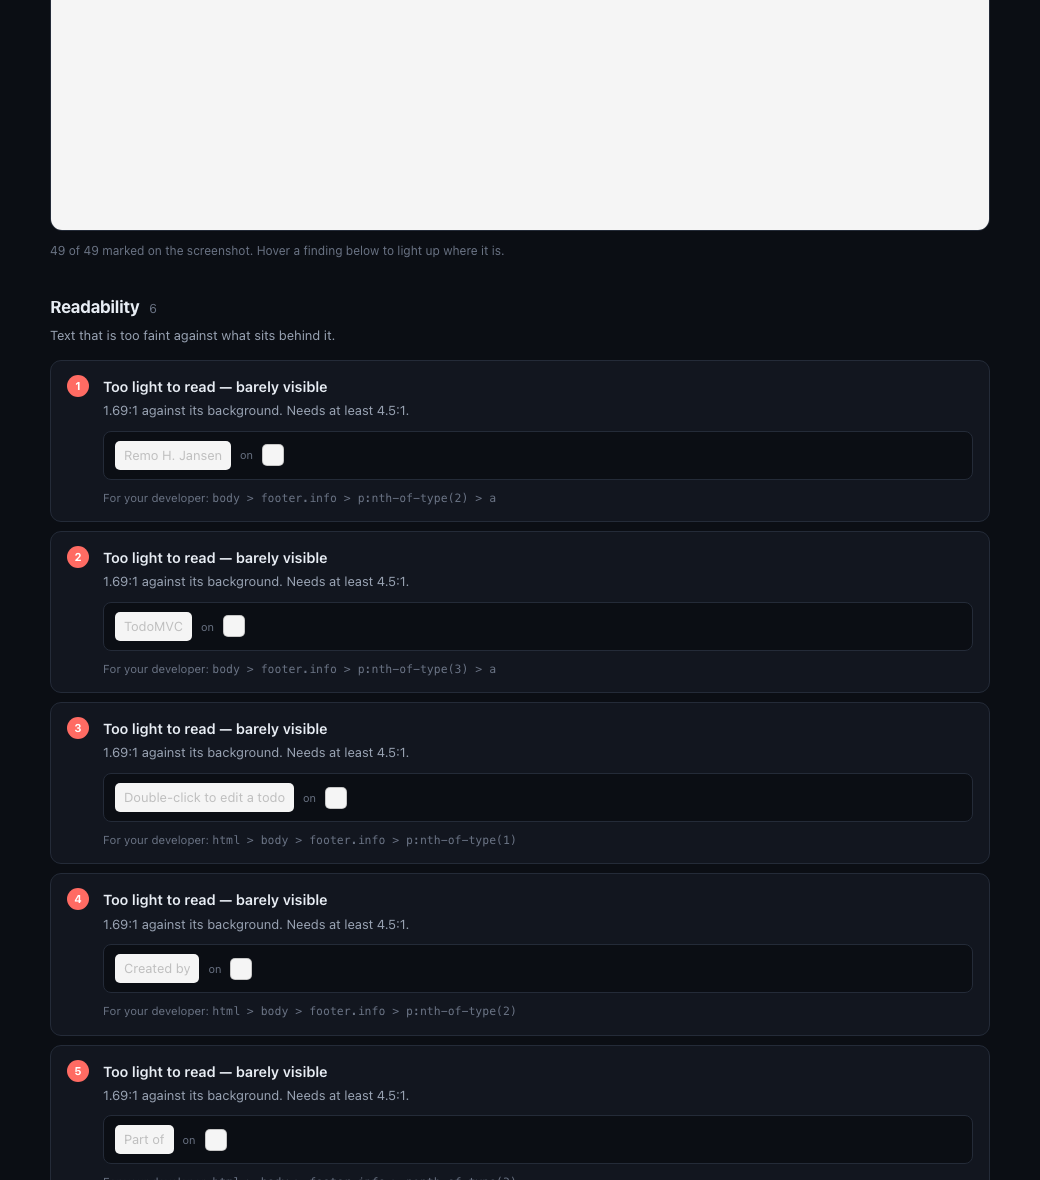
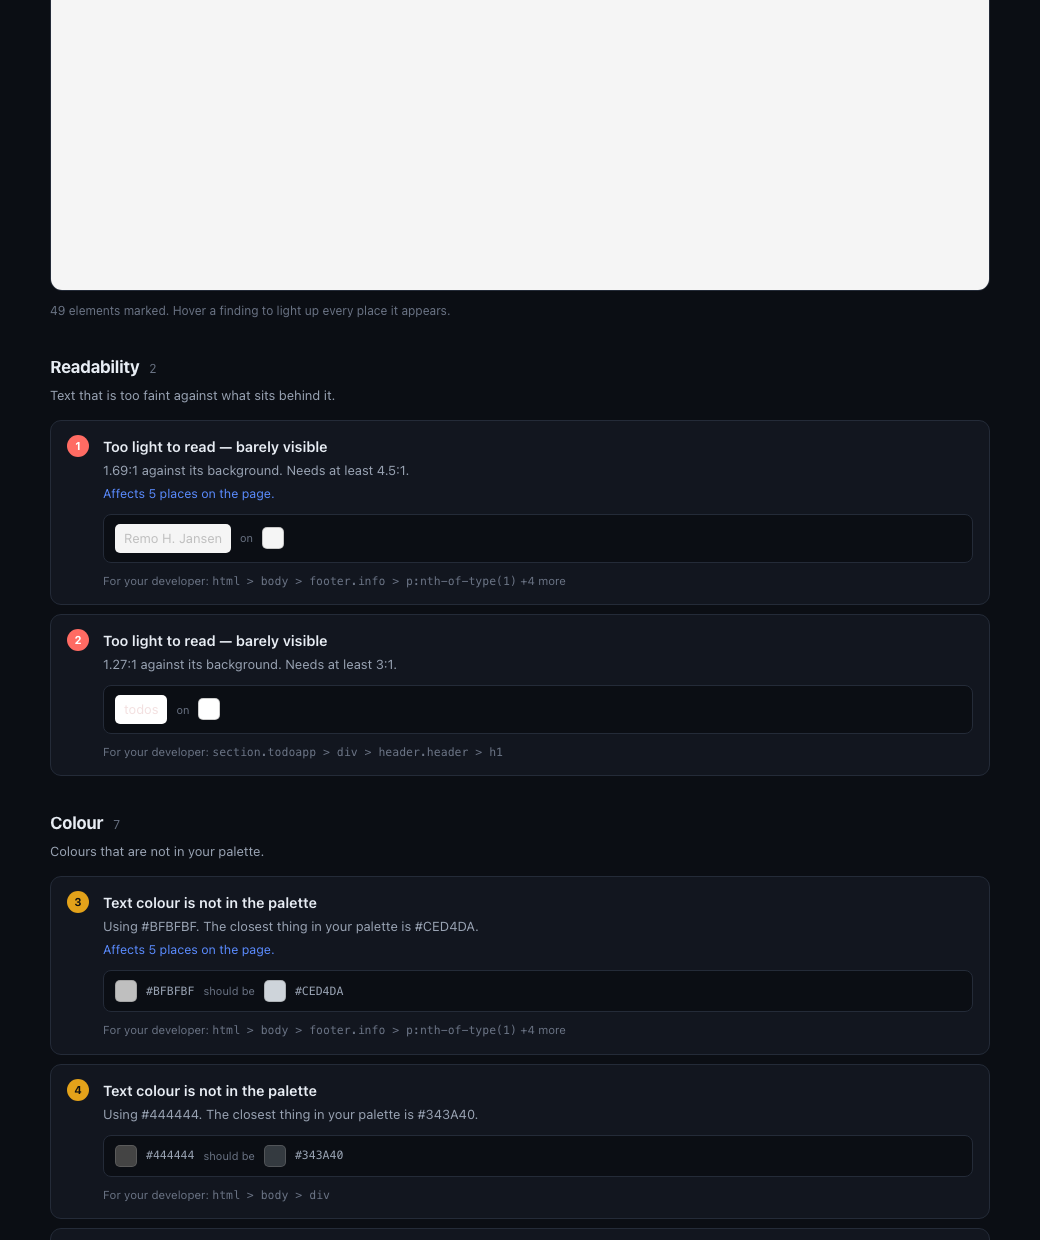
Fold duplicate findings, add a download menu, rebuild the landing page
Collapsing
- src/collapse.mjs folds findings that say exactly the same thing into one
  problem carrying every element it affects. Nine elements using the wrong
  font is one decision, not nine. On the demo site: 49 findings -> 22
  problems, 27 folded away.
- The designer report shows one card per problem with 'affects N places',
  and lights every occurrence when you hover it.
- The developer report and the CSV still list every element, because each
  one still has to be fixed.
- The results page shows both numbers so they reconcile.

Downloads
- The three buttons become one Download menu, each option saying who it is
  for. Closes on Escape, on click-outside, and after choosing.

Landing
- Rebuilt as a page you could put in front of someone: hero, the two modes,
  what it checks, how it works, and what it does with your data.

Changed region(s): [[0.0308, 0.1831, 0.9538, 1.0]]

diff --git a/README.md b/README.md
@@ -24,6 +24,8 @@ Two modes. **Audit a page** checks a live page against your tokens. **Compare wi
 
 **Fetch** — pulls the matching frame from Figma via the REST API, so the intended design sits next to the built one.
 
+**Fold** — findings that say exactly the same thing become one problem that lists every element it affects. On the demo site that turns 49 findings into 22 decisions. The developer report and the CSV still list every element, because each one has to be fixed.
+
 **Check** — runs rules over the captured styles:
 
 | Check | What it catches |
@@ -132,7 +134,7 @@ Results arrive as a page you can filter, with both reports one click away:
 
 | File | Who it's for |
 |---|---|
-| `review.html` | **The designer.** Findings drawn on the screenshot, grouped by design concern — readability, colour, type, spacing, touch targets — in plain language. Colours shown as swatches, type sizes rendered, failing text displayed in the colours that are failing. Hover a finding to light up where it is on the page. Selectors are tucked into a "for your developer" line. |
+| `review.html` | **The designer.** One card per *problem*, not per element — nine elements using the wrong font is one decision, not nine. Grouped by concern, in plain language, with colours shown as swatches, type sizes rendered, and failing text displayed in the colours that are failing. Hover a finding to light up every place it appears. Selectors are tucked into a "for your developer" line. |
 | `report.html` | **The developer.** Selectors, properties, measured against expected, filterable, with the Figma frame beside the build. |
 | `findings.csv` | **Triage.** One row per finding with severity, check, element, property, value and expected. Opens in Excel or Sheets for assigning work. Suppressed findings carry their reason, so a decision stays visible. |
 
@@ -213,7 +215,6 @@ Being honest about the edges, because a tool that overstates itself wastes your 
 
 - **No pixel diffing.** It downloads the Figma frame and puts it beside the build capture, but does not compare them automatically. Overlay comparison is genuinely hard to get right — anti-aliasing, font rendering and dynamic content produce enough false positives to drown the real findings. The rule checks are more useful per unit of effort, which is why they came first.
 - **The Figma download path has not been run against the live API.** Everything else has: the capture, the checks, the HTML report and the local UI were all run end to end against a public site, and the screenshots above are that real output. The Figma half is written and unit-tested for URL parsing, but nobody has yet pointed it at a real file with a real token. Expect to hit something the first time.
-- **One element can produce several findings.** A link inside a paragraph that both fail contrast are reported separately, because both genuinely render failing text. Correct, but it can make two problems look like five.
 - **The local UI audits one page at a time.** Multi-screen runs still need a config file.
 - **Results live in memory.** Downloads stay available while the server is up; stopping it clears them.
 - **No Figma-side token extraction.** Tokens are declared by hand in `tokens.json` rather than read from Figma variables. Reading them from the file via the Variables API is the obvious next step.
